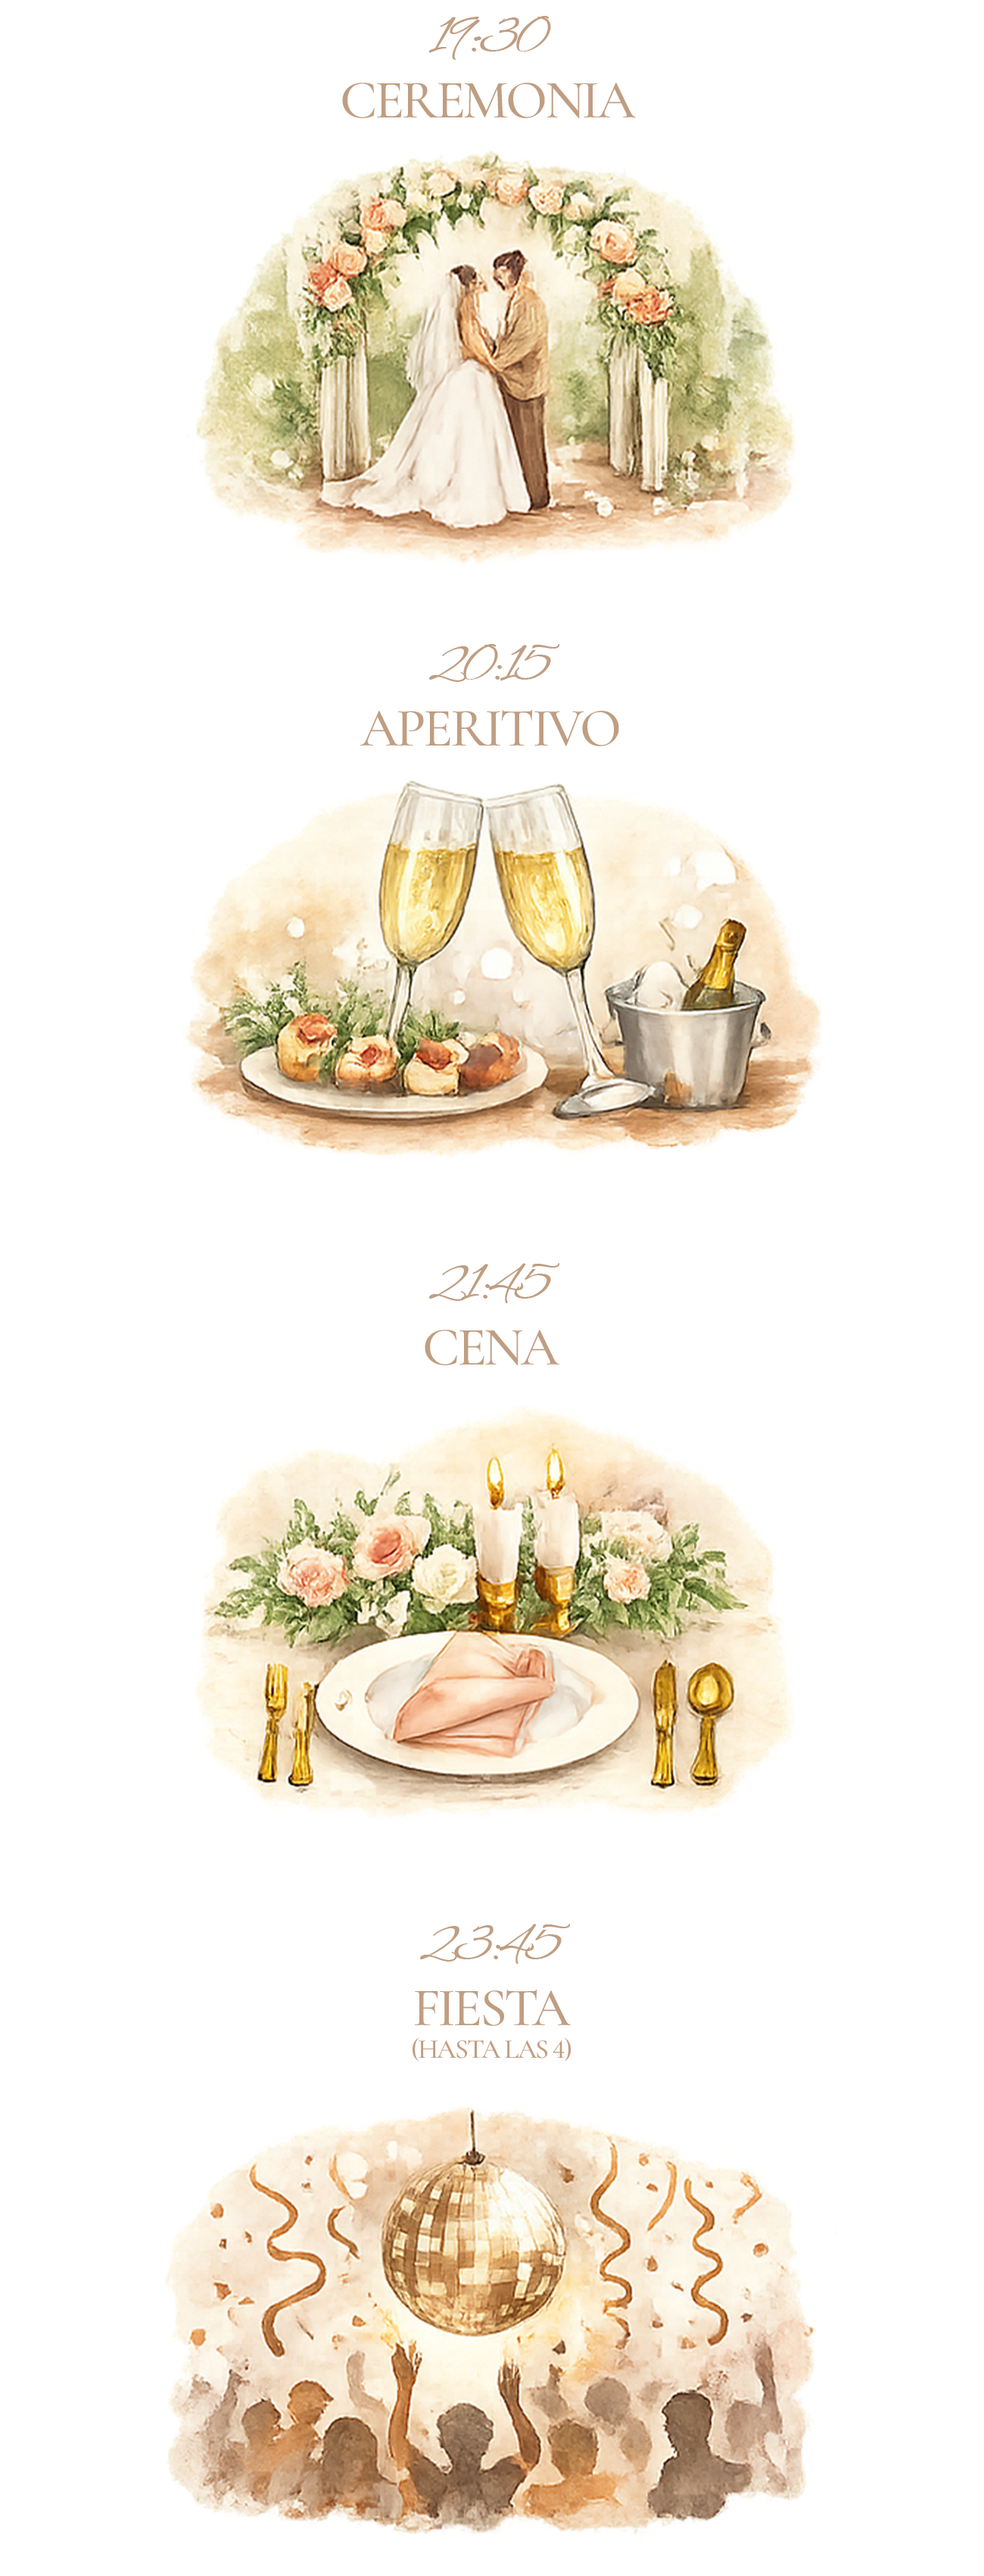
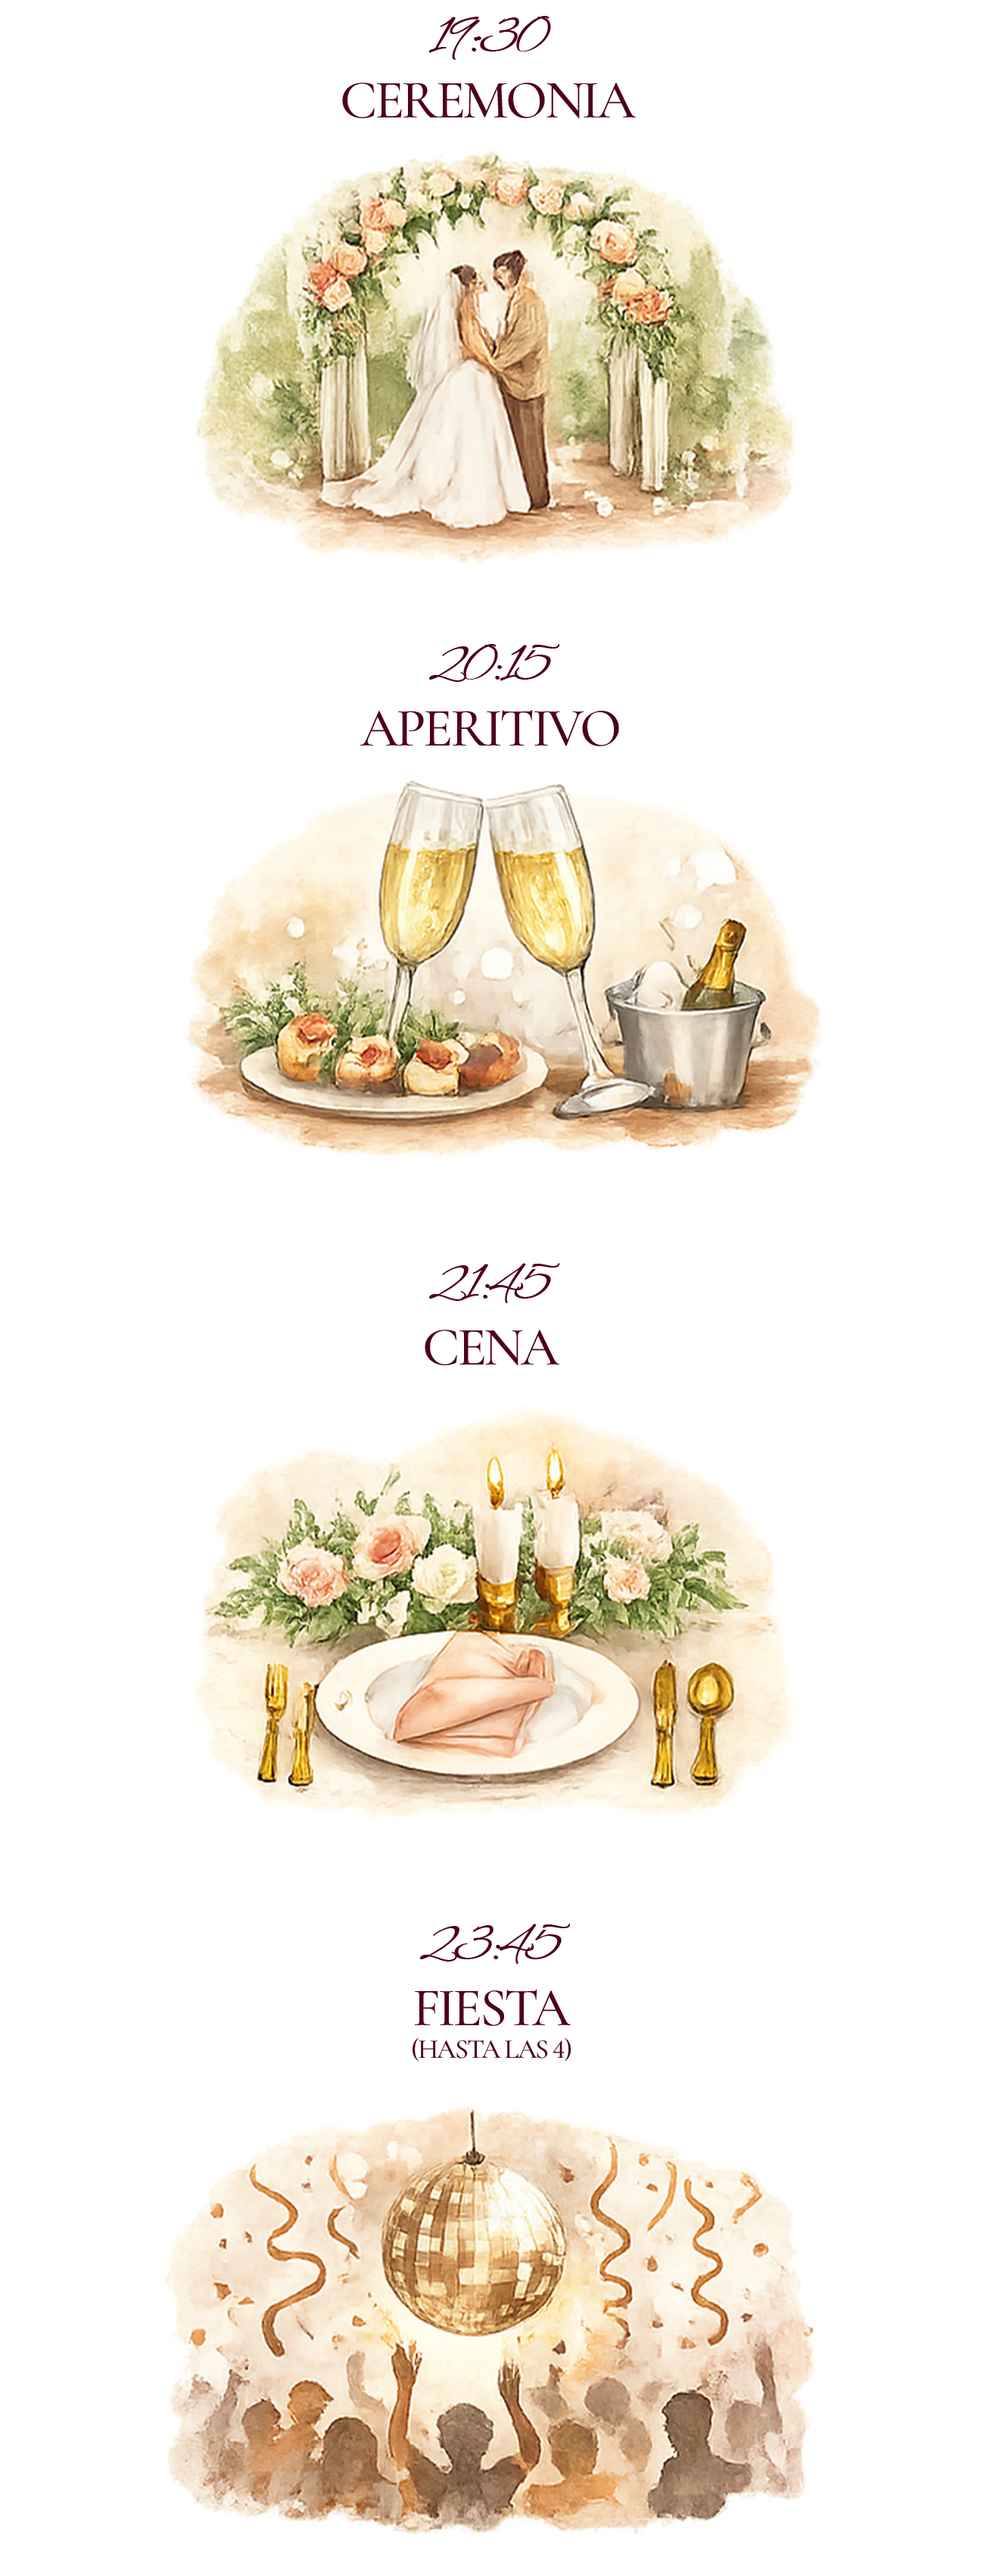
fixes

diff --git a/tailwind.config.js b/tailwind.config.js
@@ -4,9 +4,9 @@ export default {
   theme: {
     extend: {
       colors: {
-        primary: '#FAF5EB',
-        secondary: '#BF9E82',
-        accent: '#787878',
+        primary: '#FFFCF5',
+        secondary: '#3D0418',
+        accent: '#4F4F4F',
       },
       fontFamily: {
         inter: ['Inter Variable'],
